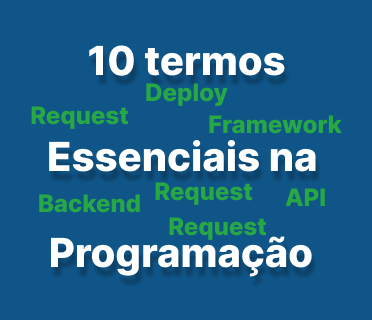
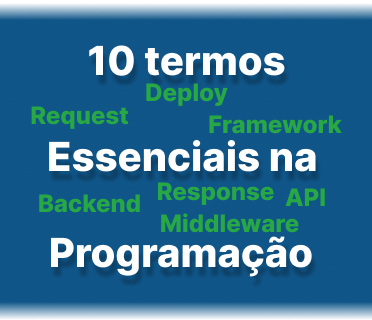
Artigo 2

Changed region(s): [[0.0, 0.9375, 1.0, 1.0], [0.0, 0.0, 1.0, 0.0625], [0.414, 0.5625, 0.7984, 0.75]]

diff --git a/docs/articles.html b/docs/articles.html
@@ -257,19 +257,20 @@
     <div class="container mt-1">
         <a href="./technology.html" class="text-decoration-none custom-text-secondary ms-lg-5 ms-3 fw-bold small">Ver artigos sobre tecnologia</a>
         <div class="row row-cols-2 g-1 mx-lg-5 text-center">
-        <div class="card">
-            <h6 class="card-header custom-text-info fw-bold">Estrutura básica HTML, CSS e Javascript</h6>
-            <div class="container">
-                <img src="./img/Artigo em Desenvolvimento.png" class="card-img-top pt-1" style="width: 9rem; height: 7rem; object-fit:cover;;" alt="">
+            <div class="card">
+                <h6 class="card-header custom-text-info fw-bold">10 Termos Essenciais na Programação</h6>
+                <div class="container d-flex justify-content-center pt-1">
+                    <img src="./img/articles-img/10terms.png" class="card-img-top" style="width: 9rem; height: 7rem; object-fit:cover;" alt="">
+                </div>
+                <div class="card-art custom-text-secondary mb-2">
+                        <small>Se você está começando no mundo do desenvolvimento web, pode se deparar com muitos termos técnicos que parecem confusos.
+                        </small>
+                    </div>
+                    <div class="card-footer">
+                    <a href="./articles/article-tech-1-10terms.html">
+                    <button class="btn btn-sm custom-btn-outline-info mt-1 mt-lg-0">Abrir na página</button></a>
+                </div>   
             </div>
-            <div class="card-art custom-text-secondary mb-2">
-                <small> Lorem ipsum dolor sit amet, consectetur adipisicing elit. Quas maxime a corrupti perspiciatis, amet velit? Consequatur earum suscipit, a voluptatem culpa excepturi reprehenderit repudiandae dolorum minus tenetur adipisci illo nobis.O layout de uma página é a estrutura visual que define como o conteúdo será apresentado ao usuário. No HTML...
-                </small>
-            </div>
-            <div class="card-footer">
-                <button class="btn btn-sm custom-btn-outline-info mt-1">Abrir na página</button>
-            </div>   
-        </div>
         <div class="card">
             <h6 class="card-header custom-text-info fw-bold">Estrutura básica HTML, CSS e Javascript</h6>
             <div class="container">

diff --git a/docs/partials/highlight-articles.html b/docs/partials/highlight-articles.html
@@ -26,9 +26,15 @@
         </div>
         </div>    
         <!--Fim do card-->
-        <div class="carousel-item">  <!--Card-->
-            <img src="img/Artigo em Desenvolvimento 400320.png" class="p-1" style="width: 100%; height: 50vh; object-fit: cover;" alt="">
-        </div><!--Fim do card-->
+        <div class="carousel-item"><!--Card-->
+            <img src="img/articles-img/10terms.png" class="p-1" style="width: 100%; height: 50vh; object-fit: cover;" alt="">
+            <div class="carousel-caption bg-dark bg-opacity-75 fw-bold"> 
+            <a href="articles/article-css-1-components.html" class="text-decoration-none text-light shadow"><h4>COMPONENTES COM CSS</h4>
+            <p>Navegação, card e botão estilizados com CSS</p>
+            <button class="btn custom-btn-outline-info btn-sm" type="button">Ler o artigo</button>    
+        </a>
+        </div>
+        </div>  
         <div class="carousel-item">  <!--Card-->
             <img src="img/Artigo em Desenvolvimento 400320.png" class="p-1" style="width: 100%; height: 50vh; object-fit: cover;" alt="">
         </div><!--Fim do card-->
